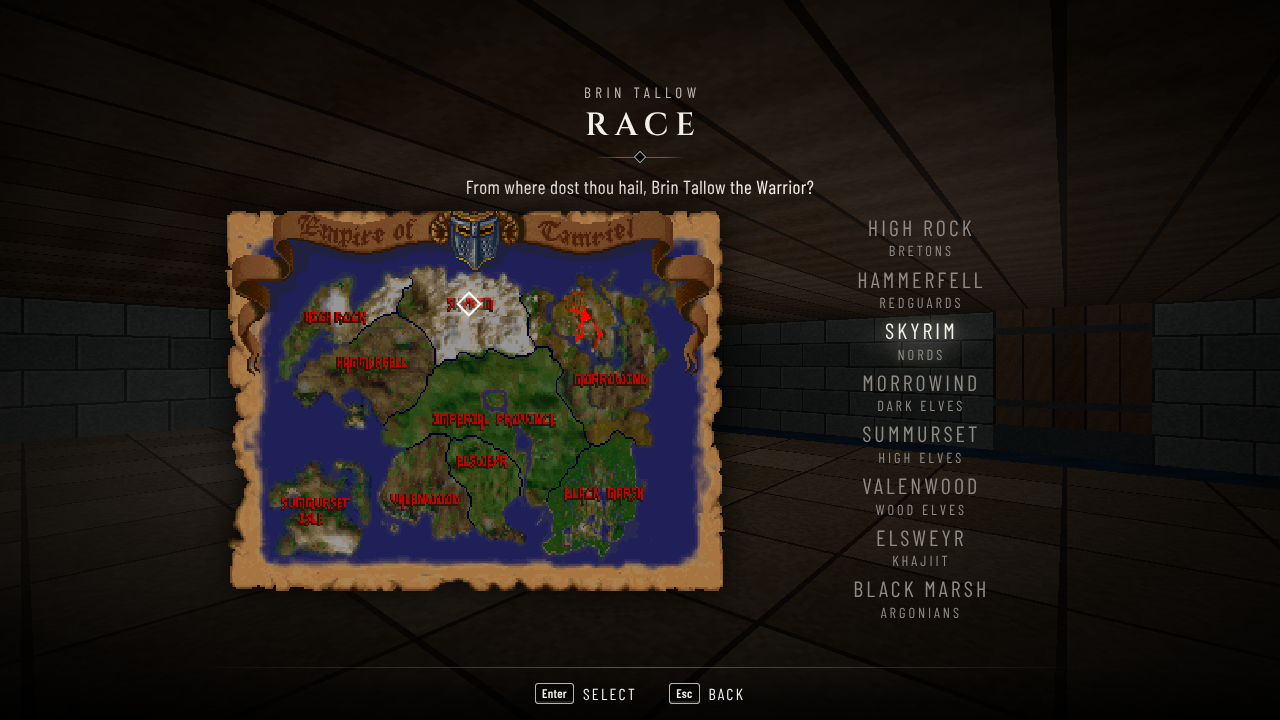
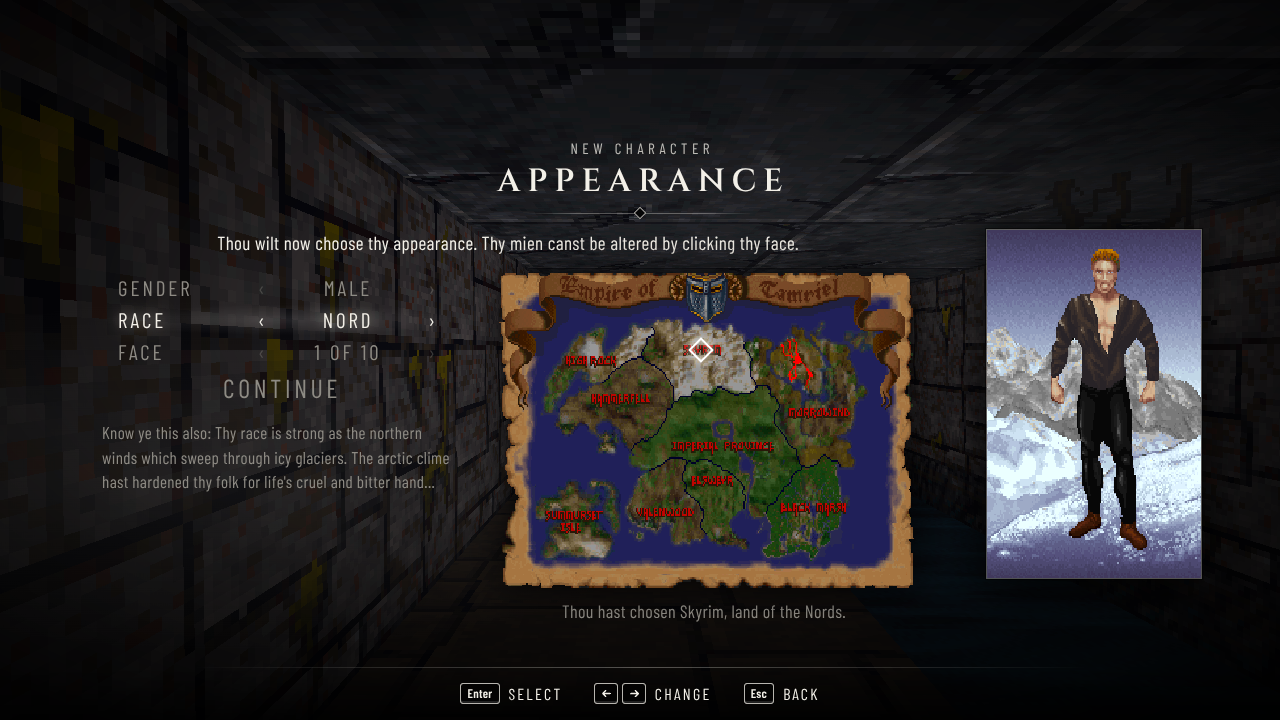
Version 0.4.4: Arena's loot and magic items, races, classes and bows
Loot comes by Arena's rules, read from the player's own copy of the game,
with its potions, trinkets and enchanted gear. Races and classes have
their gifts from Arena, monsters land blows by Arena's rule, bows shoot,
and Lizard Men and Spiders paralyse. Character creation goes in Skyrim's
order with the paper doll throughout, a film of the first dungeon plays
behind the main menu, and the chasm's stone shows below water and pits.

New screenshots, with 0.4.3's kept in the gallery.

Claude-Session: https://claude.ai/code/session_01Q4F1seqjWQGXanSBF5pphD

diff --git a/docs/gallery.md b/docs/gallery.md
@@ -3,22 +3,33 @@
 How ES Arena has looked from one release to the next, newest first. The screenshots are taken with
 `npm run screenshots`, which keeps the ones it replaces here.
 
-## 0.4.3 (latest)
+## 0.4.4 (latest)
 
 | | |
 |---|---|
-| ![The main menu](screenshots/menu.png)<br>The main menu | ![Choosing a race on the map of Tamriel](screenshots/race.png)<br>Choosing a race on the map of Tamriel |
+| ![The main menu](screenshots/menu.png)<br>The main menu | ![Choosing gender, race and face, with the map of Tamriel](screenshots/race.png)<br>Choosing gender, race and face, with the map of Tamriel |
 | ![Sharing out bonus points, beside the paper doll](screenshots/attributes.png)<br>Sharing out bonus points, beside the paper doll | ![Arriving in the cell where Arena begins](screenshots/cell.png)<br>Arriving in the cell where Arena begins |
 | ![A goblin raises its axe](screenshots/goblin.png)<br>A goblin raises its axe | ![Sneaking up on a rat](screenshots/sneak.png)<br>Sneaking up on a rat |
 | ![The menu of menus, aiming at the items](screenshots/tween.png)<br>The menu of menus, aiming at the items | ![The item menu](screenshots/items.png)<br>The item menu |
 | ![The character sheet](screenshots/character.png)<br>The character sheet | ![The map fills in as you explore](screenshots/map.png)<br>The map fills in as you explore |
 | ![Waiting, with the date and time in Arena](screenshots/wait.png)<br>Waiting, with the date and time in Arena | ![A level gained, with bonus points to share out](screenshots/level.png)<br>A level gained, with bonus points to share out |
 
+## 0.4.3
+
+| | |
+|---|---|
+| ![The main menu](screenshots/0.4.3/menu.png)<br>The main menu | ![Choosing gender, race and face, with the map of Tamriel](screenshots/0.4.3/race.png)<br>Choosing gender, race and face, with the map of Tamriel |
+| ![Sharing out bonus points, beside the paper doll](screenshots/0.4.3/attributes.png)<br>Sharing out bonus points, beside the paper doll | ![Arriving in the cell where Arena begins](screenshots/0.4.3/cell.png)<br>Arriving in the cell where Arena begins |
+| ![A goblin raises its axe](screenshots/0.4.3/goblin.png)<br>A goblin raises its axe | ![Sneaking up on a rat](screenshots/0.4.3/sneak.png)<br>Sneaking up on a rat |
+| ![The menu of menus, aiming at the items](screenshots/0.4.3/tween.png)<br>The menu of menus, aiming at the items | ![The item menu](screenshots/0.4.3/items.png)<br>The item menu |
+| ![The character sheet](screenshots/0.4.3/character.png)<br>The character sheet | ![The map fills in as you explore](screenshots/0.4.3/map.png)<br>The map fills in as you explore |
+| ![Waiting, with the date and time in Arena](screenshots/0.4.3/wait.png)<br>Waiting, with the date and time in Arena | ![A level gained, with bonus points to share out](screenshots/0.4.3/level.png)<br>A level gained, with bonus points to share out |
+
 ## 0.4.2
 
 | | |
 |---|---|
-| ![The main menu](screenshots/0.4.2/menu.png)<br>The main menu | ![Choosing a race on the map of Tamriel](screenshots/0.4.2/race.png)<br>Choosing a race on the map of Tamriel |
+| ![The main menu](screenshots/0.4.2/menu.png)<br>The main menu | ![Choosing gender, race and face, with the map of Tamriel](screenshots/0.4.2/race.png)<br>Choosing gender, race and face, with the map of Tamriel |
 | ![Sharing out bonus points, beside the paper doll](screenshots/0.4.2/attributes.png)<br>Sharing out bonus points, beside the paper doll | ![Arriving in the cell where Arena begins](screenshots/0.4.2/cell.png)<br>Arriving in the cell where Arena begins |
 | ![A goblin raises its axe](screenshots/0.4.2/goblin.png)<br>A goblin raises its axe | ![Sneaking up on a rat](screenshots/0.4.2/sneak.png)<br>Sneaking up on a rat |
 | ![The item menu](screenshots/0.4.2/items.png)<br>The item menu | ![The character sheet](screenshots/0.4.2/character.png)<br>The character sheet |
@@ -28,7 +39,7 @@ How ES Arena has looked from one release to the next, newest first. The screensh
 
 | | |
 |---|---|
-| ![The main menu](screenshots/0.4.0/menu.png)<br>The main menu | ![Choosing a race on the map of Tamriel](screenshots/0.4.0/race.png)<br>Choosing a race on the map of Tamriel |
+| ![The main menu](screenshots/0.4.0/menu.png)<br>The main menu | ![Choosing gender, race and face, with the map of Tamriel](screenshots/0.4.0/race.png)<br>Choosing gender, race and face, with the map of Tamriel |
 | ![Sharing out bonus points, beside the paper doll](screenshots/0.4.0/attributes.png)<br>Sharing out bonus points, beside the paper doll | ![Arriving in the cell where Arena begins](screenshots/0.4.0/cell.png)<br>Arriving in the cell where Arena begins |
 | ![A goblin raises its axe](screenshots/0.4.0/goblin.png)<br>A goblin raises its axe | ![Sneaking up on a rat](screenshots/0.4.0/sneak.png)<br>Sneaking up on a rat |
 | ![The item menu](screenshots/0.4.0/items.png)<br>The item menu | ![The character sheet](screenshots/0.4.0/character.png)<br>The character sheet |

diff --git a/CHANGELOG.md b/CHANGELOG.md
@@ -3,7 +3,9 @@
 Every release of ES Arena, newest first. Each one is on the
 [Releases page](https://github.com/arenasloppa/ES-Arena/releases) with its downloads.
 
-## Unreleased
+## 0.4.4 (2026-10-12)
+
+Arena's loot and magic items; races, classes and monsters' blows as in Arena; bows that shoot; character creation in Skyrim's order; a film of the first dungeon behind the main menu; and the stone of the chasm's sides below water and pits.
 
 - The item menu's pictures turn, as Skyrim's items do. Drag the picked piece with the mouse, or push the right stick, to turn it round, and roll the mouse wheel or press the right stick to bring it closer. Each one is Arena's own picture given depth, thin at its edges and swelling towards the middle, so a blade stays thin while a cuirass or a shield bulges, and the light falls from your side as it turns.
 - Where a wall comes down into water or a pit, the stone of the chasm's sides now shows below the floor's level, as in Arena.
